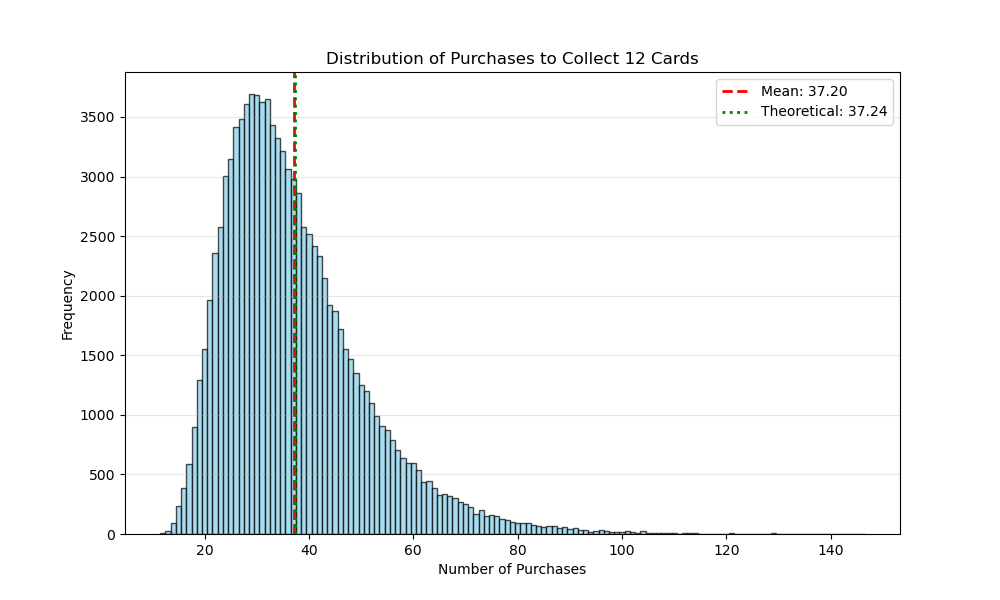
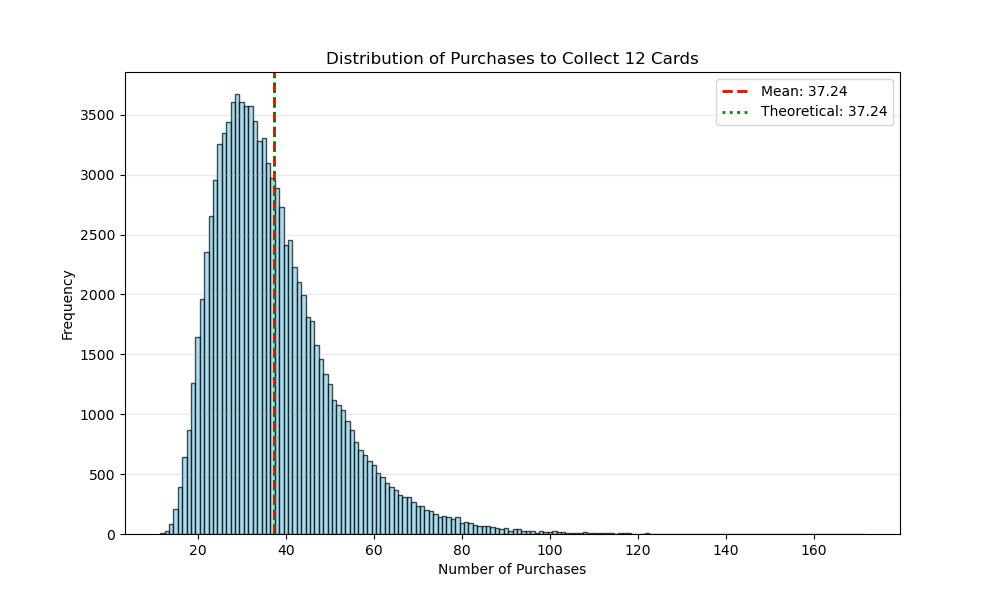
content: modify collect card set

diff --git a/content/posts/collecting-card-set/simulation.py b/content/posts/collecting-card-set/simulation.py
@@ -13,9 +13,12 @@ trials = 100000
 results = [f() for _ in range(trials)]
 
 plt.figure(figsize=(10, 6))
-plt.hist(results, bins=range(min(results), max(results) + 2), align='left', color='skyblue', edgecolor='black', alpha=0.7)
-plt.axvline(sum(results)/len(results), color='red', linestyle='dashed', linewidth=2, label=f'Mean: {sum(results)/len(results):.2f}')
-plt.axvline(37.24, color='green', linestyle='dotted', linewidth=2, label='Theoretical: 37.24')
+plt.hist(results, bins=range(min(results), max(results) + 2), align='left',
+         color='skyblue', edgecolor='black', alpha=0.7)
+plt.axvline(sum(results)/len(results), color='red', linestyle='dashed',
+            linewidth=2, label=f'Mean: {sum(results)/len(results):.2f}')
+plt.axvline(37.24, color='green', linestyle='dotted', linewidth=2,
+            label='Theoretical: 37.24')
 
 plt.title('Distribution of Purchases to Collect 12 Cards')
 plt.xlabel('Number of Purchases')

diff --git a/content/posts/collecting-card-set/index.md b/content/posts/collecting-card-set/index.md
@@ -1,62 +1,112 @@
 +++
-title = '集卡組'
+title = '集滿卡組有多難'
 date = 2026-01-21T20:49:59+08:00
 categories = ['筆記']
-labels = ['數字']
+tags = ['數學']
 draft = true
 +++
 
-### 題目
-> 卡片販賣機有 \\( \frac{1}{12} \\) 的機率掉任一張卡，問集滿全套 12 張卡的期望購買次數為何？
-> 隨卡片張數增加，期望次數的增加趨勢為何？
+這是個簡單的高中數學問題，然而我遇到的當下居然想錯，所以來筆記一下。
 
-這是簡單的高中數學，但我看到販賣機的當下居然想錯，所以來筆記一下。
+### 重點
+#### 題目
+卡片販賣機有 \\( \frac{1}{12} \\) 的機率掉任一張卡，問集滿全套 12 張卡的期望購買次數為何？
+#### 答案
+\\( \frac{12}{12} + \frac{12}{11} + ... \frac{12}{1} \approx 37.24 \\)
+#### 延伸題目
+隨卡片張數增加，期望次數的增加趨勢為何？
 
-### 集卡過程
+### 詳解
+#### 集卡過程
 要集滿 12 張卡，我們要
 - 集到第 1 張卡
-- 集到第 2 張卡
-- 集到第 3 張卡
+- 集到第 2 張不一樣的卡
+- 集到第 3 張不一樣的卡
 - ...
-- 集到第 12 張卡
+- 集到第 12 張不一樣的卡
 
-假設已經有 \\( x \\) 張卡的情況下，集到第 \\( x+1 \\) 張卡要抽 \\( a_x \\) 次。那麼從 0 張卡集到第 12 張卡的次數就是
+假設已經有 \\( x \\) 張不一樣的卡的情況下，接下來要集到第 \\( x+1 \\) 張不一樣的卡要抽 \\( a_x \\) 次。那麼從 0 張卡集到第 12 張卡的次數就是
 $$ a_0 + a_1 + a_2 \dots + a_{11} $$
 
-### 集到一張新卡的期望次數
-假設我已經有 5 張卡了，集到第 6 張卡要抽 \\( a_5 \\) 次，\\( a_5 \\) 是多少呢？
+#### 集到一張新卡的期望次數
+假設我已經有 5 張不一樣的卡了，集到第 6 張不一樣的卡要抽 \\( a_5 \\) 次，\\( a_5 \\) 的期望值是多少呢？
 
-每一次有 \\( \frac{5}{12} \\) 的機率會抽到重複的，\\( \frac{7}{12} \\) 的機率會抽中新卡。\\( \frac{7}{12} \\) 的中獎率，期望要抽的次數就是 \\( \frac{12}{7} \\)。
+每一次有 \\( \frac{5}{12} \\) 的機率會抽到重複的，\\( \frac{7}{12} \\) 的機率會抽中新卡。\\( \frac{7}{12} \\) 的中獎率，[期望要抽的次數就是它的倒數](#why-reciprocal) \\( \frac{12}{7} \\)。
 
-#### 為什麼中獎率的倒數即是期望抽數？
-$$ 期望抽數 = 一抽入機率 \times 1抽 + (未能一抽入機率) \times (1抽 + 再接再厲的望抽數) $$
-
-抽到重複的情況對下一次抽沒有任何幫助，所以再接再厲的期望抽數就是當下的期望抽數。算式整理一下，可得
-$$ 期望抽數 = 1抽 + (1 - 一抽入機率) \times 期望抽數 $$
-
-$$ 期望抽數 = \frac{1}{一抽入機率} $$
-
-$$ a_5 = \frac{12}{7} $$
-
-### 集滿 12 張卡的期望次數
+#### 集滿 12 張卡的期望次數
 $$
 \begin{aligned}
-& a_0 + a_1 + a_2 \dots + a_{11} \\\\
-&= \frac{1}{\frac{12}{12}} + \frac{1}{\frac{11}{12}} + \frac{1}{\frac{10}{12}} \dots + \frac{1}{\frac{1}{12}} \\\\
-&= 12 \times \left( \frac{1}{12} + \frac{1}{11} + \frac{1}{10} \dots + \frac{1}{1} \right) \\\\
-&\approx 37.24
+ &a_0 期望值 + a_1 期望值 + a_2 期望值 \dots + a_{11} 期望值 \\\\
+= &\frac{12}{12} + \frac{12}{11} + \frac{12}{10} \dots + \frac{12}{1} \\\\
+\approx &37.24
 \end{aligned}
 $$
 
-### 卡集張數與期望次數的關係
+#### 卡集張數與期望次數的關係
 $$ N \times (\frac{1}{N} + \frac{1}{N-1} + \frac{1}{N-2} \dots + \frac{1}{1}) $$
 
 右項為[調和級數](https://zh.wikipedia.org/zh-tw/調和級數)，複雜度為 \\( \log N \\)。故集滿 N 張卡集的期望次數複雜度為 \\( O(N \log N) \\)。
 
-### 解答
-集滿全套 12 張卡的期望購買次數為 \\( 12 \times (\frac{1}{12} + \frac{1}{11} + \frac{1}{10} \dots + \frac{1}{1}) \approx 37.24 \\)
+### 附錄
+#### 為什麼期望要抽的次數就是中獎率的倒數？ {#why-reciprocal}
+直觀的說法：
+> 中獎率砍半，期望要抽的次數就加倍，所以是反比關係。<br>
+為什麼中獎率砍半，期望要抽的次數就加倍呢？
+我們可以從這個問題入手：一副撲克牌抽到紅Ａ所需的期望次數是多少？
 
-卡片張數為 \\( N \\)，期望次數 \\( N\sum_{n=1}^{N} \frac{1}{n} \\) 的增加趨勢為 \\( O(N \log N) \\)。
+
+從期望值定義出發的算法：
+> $$
+\begin{aligned}
+期望抽數 &= 可能性甲發生機率 \times 可能性甲的抽數 + 可能性乙發生機率 \times 可能性乙的抽數 + 可能性丙\dots \\\\
+期望抽數 &= 一抽入機率 \times 1抽 + (未能一抽入機率) \times (1抽 + 再接再厲的期望抽數)
+\end{aligned}
+$$
+第一抽抽到重複的情況，對接下來的處境沒有任何幫助，所以再接再厲的期望抽數就是當下的期望抽數。算式整理一下，可得
+$$
+\begin{aligned}
+期望抽數 &= 一抽入機率 \times 1抽 + (未能一抽入機率) \times (1抽 + 期望抽數) \\\\
+期望抽數 &= 1抽 + (1 - 一抽入機率) \times 期望抽數 \\\\
+期望抽數 &= \frac{1}{一抽入機率} \\\\
+\end{aligned}
+$$
+
+#### 模擬集 12 張卡所需次數
+![模擬集 12 張卡所需次數直方圖](histogram.png)
+
+```python
+import random
+import matplotlib.pyplot as plt
+
+def f():
+    cnt = 0
+    v = [0]*12
+    while sum(v) != 12:
+        v[random.randint(0, 11)] = 1
+        cnt += 1
+    return cnt
+
+trials = 100000
+results = [f() for _ in range(trials)]
+
+plt.figure(figsize=(10, 6))
+plt.hist(results, bins=range(min(results), max(results) + 2), align='left',
+         color='skyblue', edgecolor='black', alpha=0.7)
+plt.axvline(sum(results)/len(results), color='red', linestyle='dashed',
+            linewidth=2, label=f'Mean: {sum(results)/len(results):.2f}')
+plt.axvline(37.24, color='green', linestyle='dotted', linewidth=2,
+            label='Theoretical: 37.24')
+
+plt.title('Distribution of Purchases to Collect 12 Cards')
+plt.xlabel('Number of Purchases')
+plt.ylabel('Frequency')
+plt.legend()
+plt.grid(axis='y', alpha=0.3)
+
+plt.savefig('histogram.png')
+print("Histogram saved as histogram.png")
+plt.show()
+```
 
 {{< katex >}}
 
